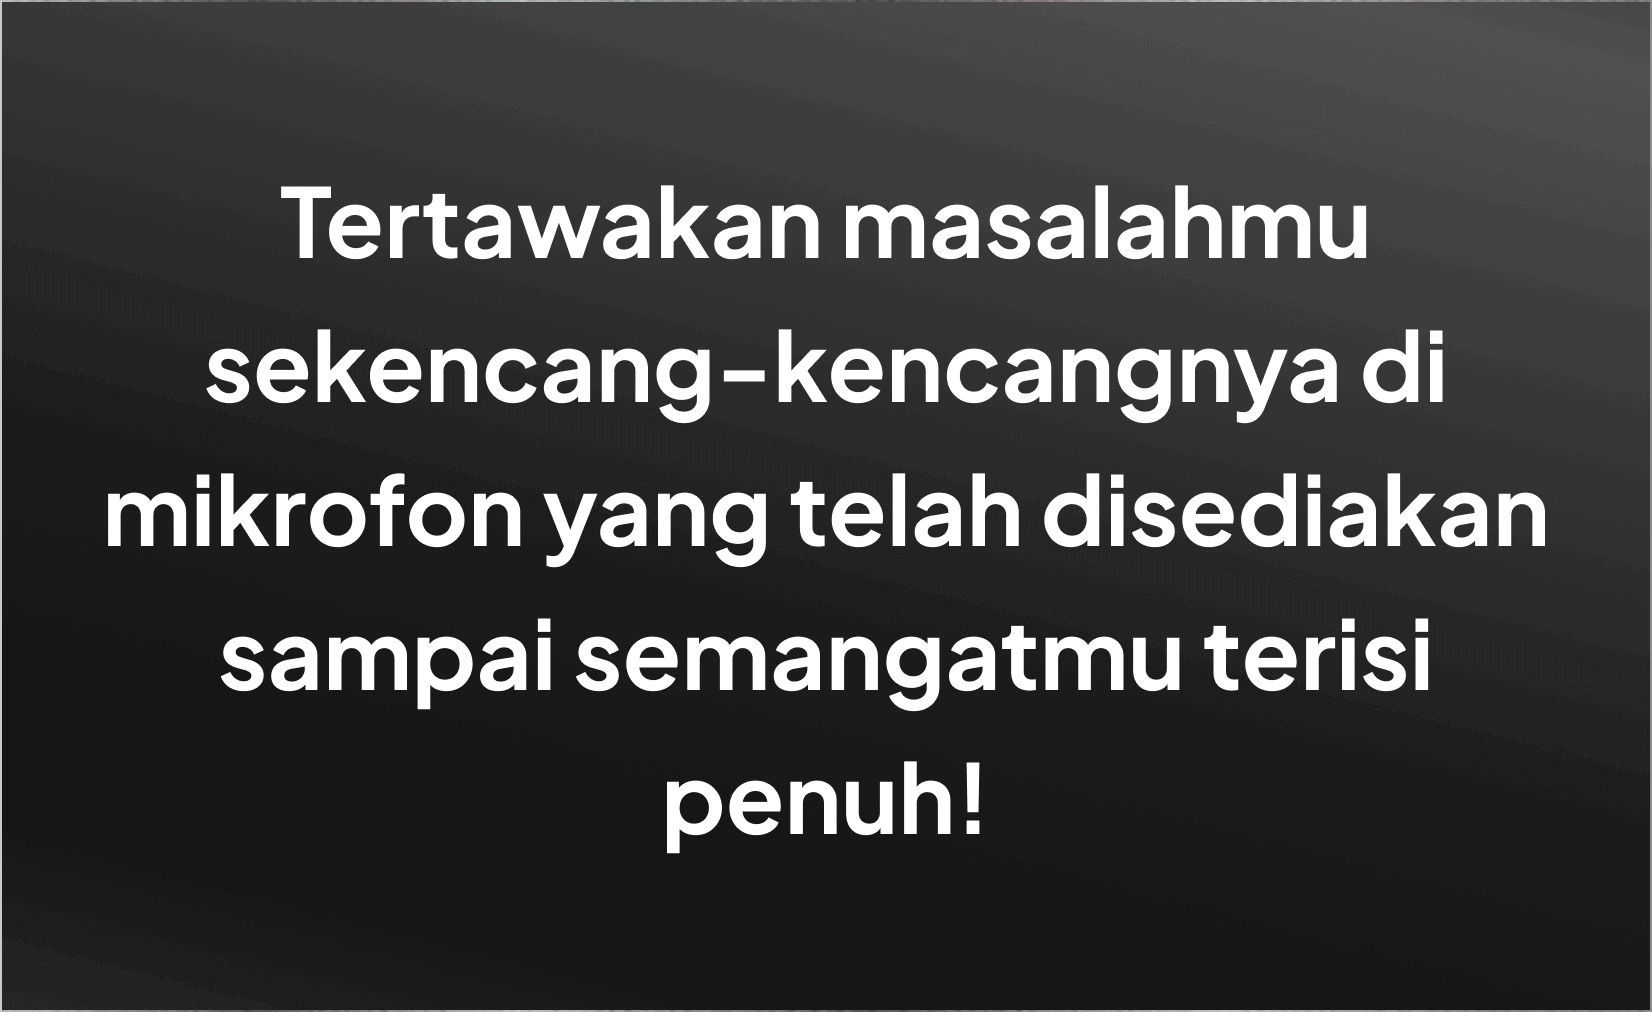
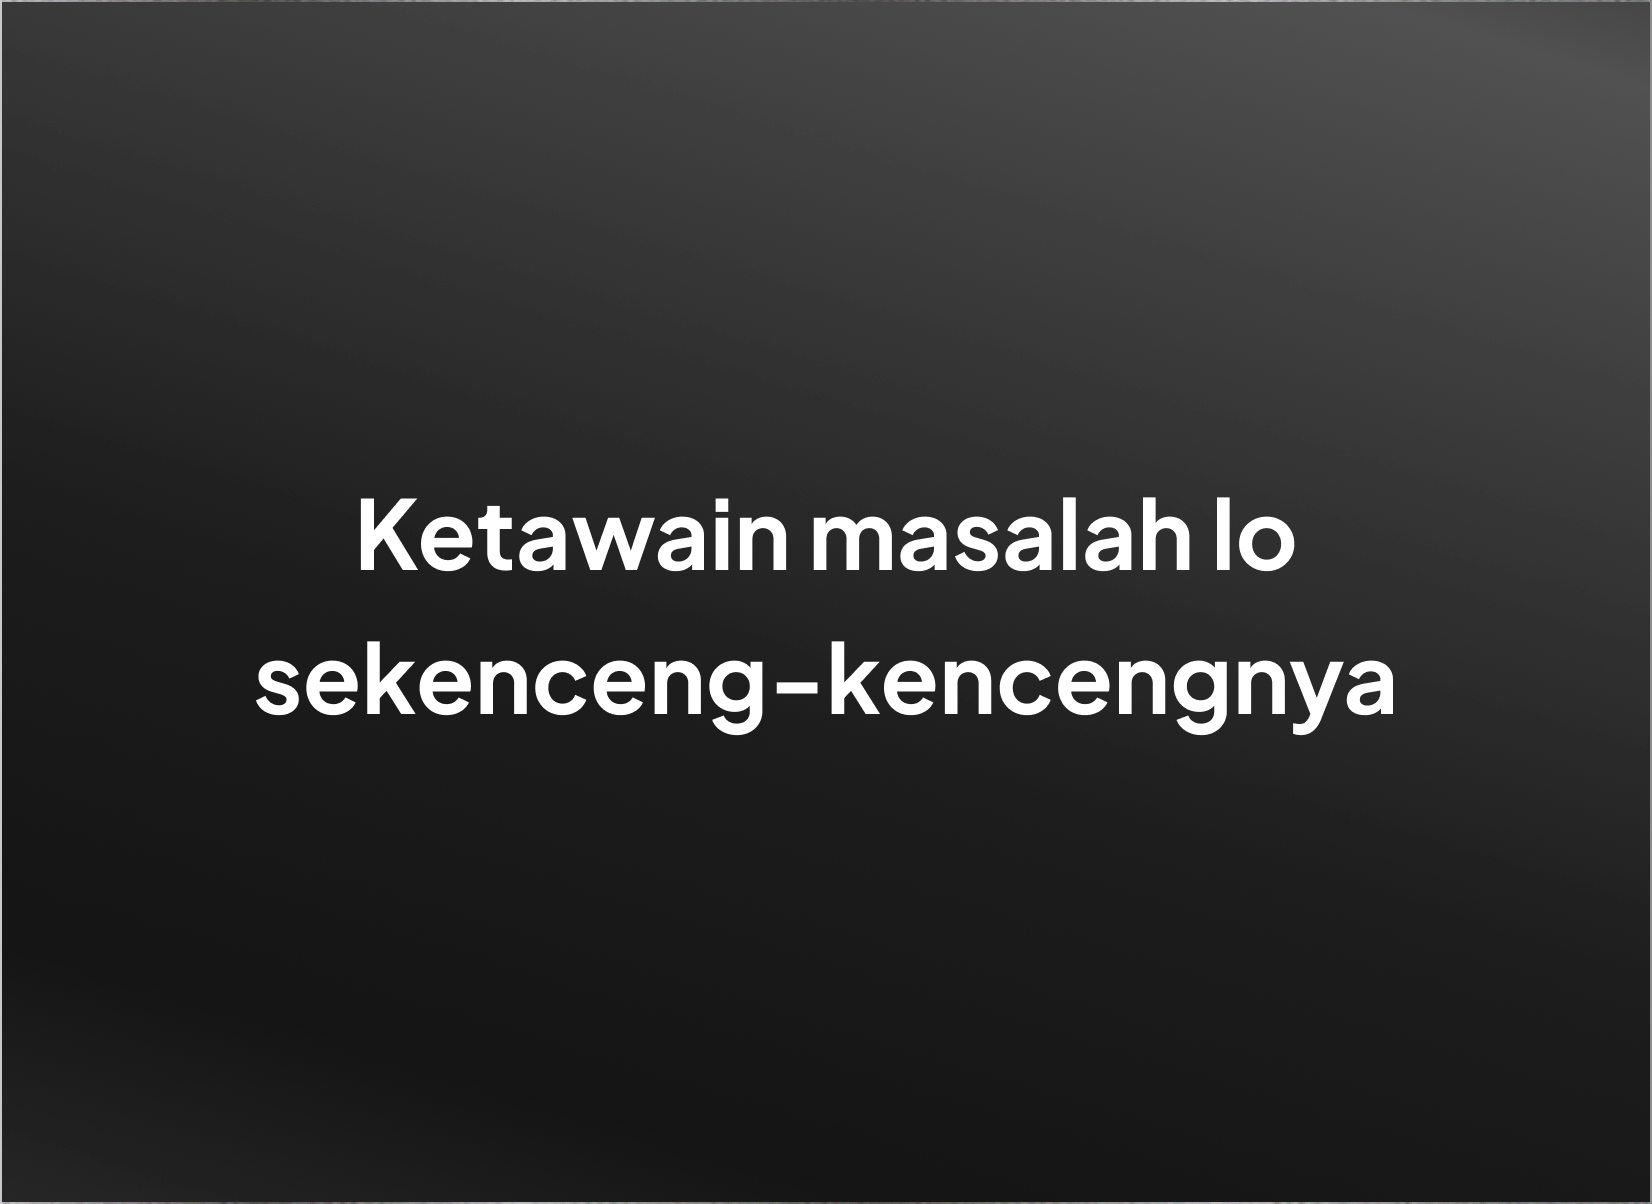
upd copy

Changed region(s): [[0.0617, 0.3063, 0.957, 0.7045], [0.1544, 0.1838, 0.8335, 0.2757], [0.4013, 0.7352, 0.6174, 0.8577]]

diff --git a/app/primaria/voice2/page.js b/app/primaria/voice2/page.js
@@ -17,7 +17,7 @@ export default function Voice() {
         <main className="flex fixed h-full w-full bg-primaria overflow-auto flex-col items-center pt-2 pb-5 px-5 lg:pt-12 lg:px-20">
             <BgWave ></BgWave>
             <TopLogoPrimaria></TopLogoPrimaria>
-            <h1 className={`text-center text-xl lg:text-6xl font-medium mt-1 lg:mt-10 z-20 !leading-snug ${kanit.className}`}>Ketawain masalah lo sekenceng-kencengnya sampai semangatmu terisi penuh!</h1>
+            <h1 className={`text-center text-xl lg:text-6xl font-medium mt-1 lg:mt-10 z-20 !leading-snug ${kanit.className}`}>Ayo ketawa sampe semangat lo terisi penuh</h1>
             <div className="relative w-full flex flex-col justify-center items-center z-20">
                 <VoiceWave direct={'cam2'} />
             </div>
